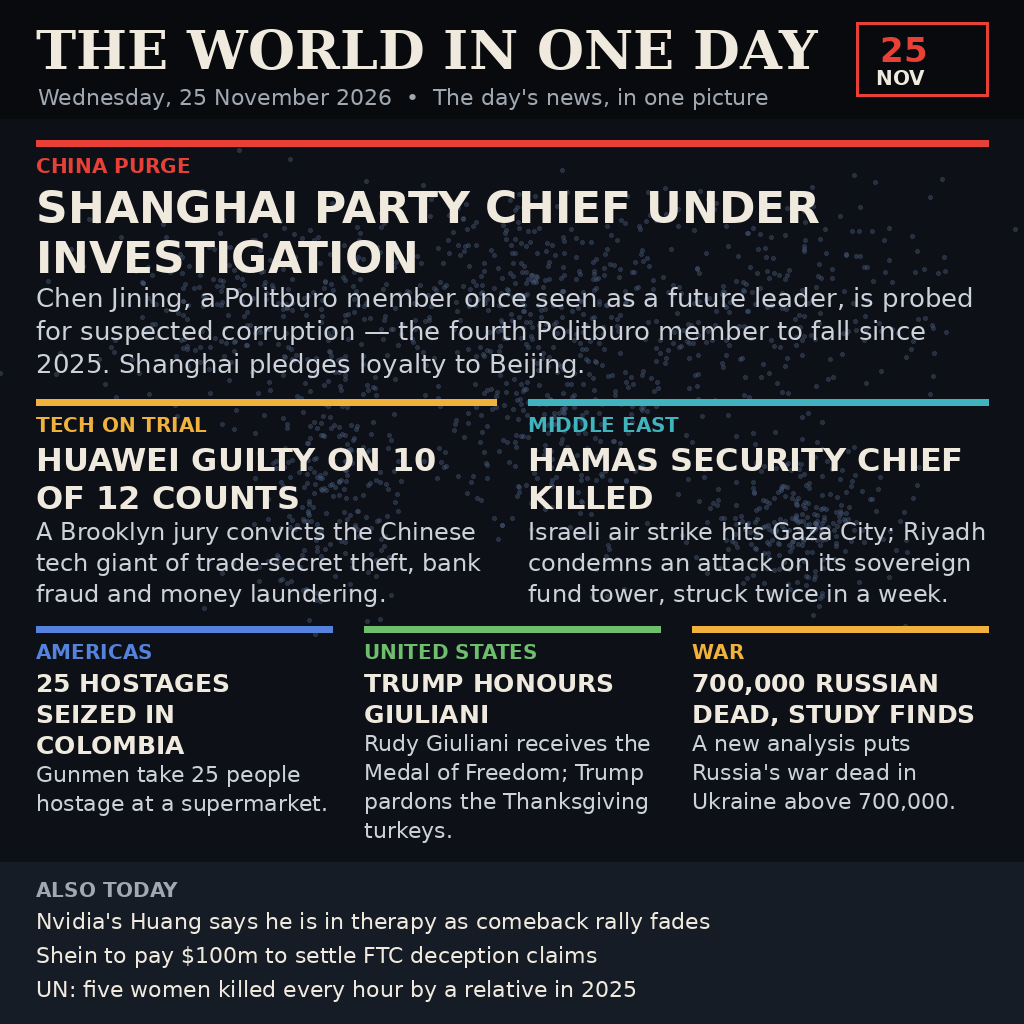
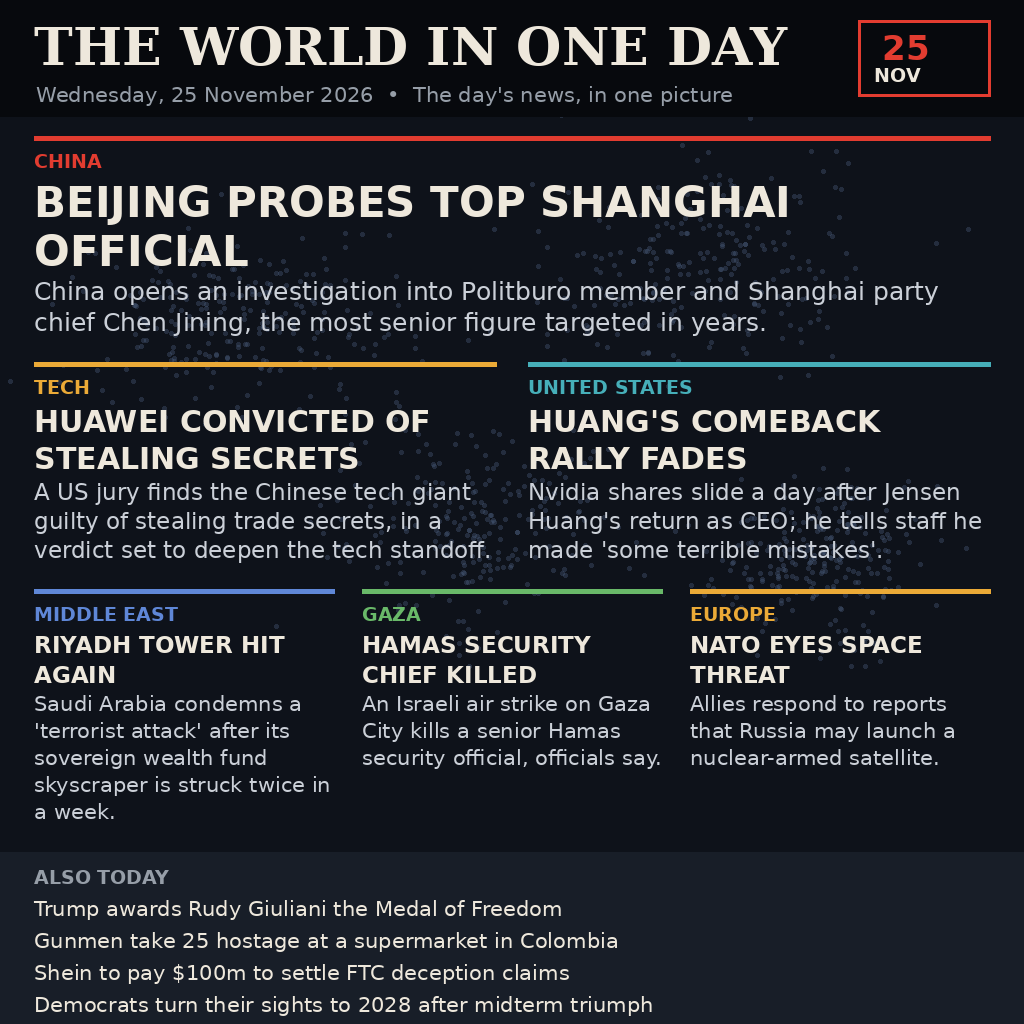
Rewrite build_image.py and main.py from scratch for 25 Nov 2026

Changed region(s): [[0.0312, 0.0, 0.9688, 0.8125], [0.0312, 0.8438, 0.6875, 1.0]]

diff --git a/build_image.py b/build_image.py
@@ -1,115 +1,138 @@
 #!/usr/bin/env python3
 """Draw the 25 Nov 2026 world-news summary image (1024x1024 PNG).
 
-Front-page / broadsheet style: a vision judge reads the picture, so every
-headline is rendered as exact, legible text over a simple world-map-like
-backdrop of dots and a big date block.
+A front-page layout: masthead with the date, one lead story, two
+mid-size stories, three short stories and an "also today" strip.
+Every story is drawn by a small helper that returns where it ends,
+so blocks are stacked with fixed gaps and can never overlap.
 """
 from PIL import Image, ImageDraw, ImageFont
 
 W = H = 1024
-BG = (13, 17, 23)
-PAPER = (240, 234, 222)
-ACCENT = (232, 64, 54)      # red
-GOLD = (240, 178, 60)
-TEAL = (64, 180, 190)
-BLUE = (84, 130, 220)
-GREEN = (110, 190, 110)
-GREY = (160, 168, 178)
-DARKPANEL = (22, 28, 38)
+INK = (14, 18, 26)          # page background
+PAPER = (238, 232, 220)     # headline colour
+BODY = (203, 208, 216)      # body text colour
+MUTED = (150, 158, 168)     # captions
+RED = (226, 60, 48)
+AMBER = (235, 170, 55)
+TEAL = (70, 175, 185)
+SKY = (95, 135, 215)
+LEAF = (105, 185, 105)
+STRIP = (24, 30, 40)
 
+SERIF = "/usr/share/fonts/truetype/dejavu/DejaVuSerif-Bold.ttf"
 BOLD = "/usr/share/fonts/truetype/dejavu/DejaVuSans-Bold.ttf"
-REG = "/usr/share/fonts/truetype/dejavu/DejaVuSans.ttf"
-SERIFB = "/usr/share/fonts/truetype/dejavu/DejaVuSerif-Bold.ttf"
+PLAIN = "/usr/share/fonts/truetype/dejavu/DejaVuSans.ttf"
 
-def f(path, size):
+
+def font(path, size):
     return ImageFont.truetype(path, size)
 
-img = Image.new("RGB", (W, H), BG)
+
+img = Image.new("RGB", (W, H), INK)
 d = ImageDraw.Draw(img, "RGBA")
 
-# dotted world backdrop (stylised continents as dot clusters)
+# faint dotted texture, like a stylised map, behind the stories
 import random
 random.seed(25)
-for cx, cy, rx, ry in [(250, 300, 150, 90), (330, 470, 70, 110), (520, 280, 130, 80),
-                       (560, 420, 90, 110), (760, 300, 170, 100), (800, 520, 80, 60)]:
-    for _ in range(260):
-        x = random.gauss(cx, rx / 1.7)
-        y = random.gauss(cy, ry / 1.7)
+for cx, cy, rx, ry in [(230, 320, 140, 80), (700, 260, 160, 90),
+                       (480, 520, 120, 90), (820, 560, 90, 70)]:
+    for _ in range(240):
+        x = random.gauss(cx, rx / 1.8)
+        y = random.gauss(cy, ry / 1.8)
         if 0 < x < W and 0 < y < H:
-            d.ellipse([x - 2, y - 2, x + 2, y + 2], fill=(70, 90, 120, 110))
+            d.ellipse([x - 2, y - 2, x + 2, y + 2], fill=(70, 88, 118, 100))
 
-def wrap(text, font, width):
-    words, lines, cur = text.split(), [], ""
-    for w in words:
-        t = (cur + " " + w).strip()
-        if d.textlength(t, font=font) <= width:
-            cur = t
+
+def wrap(text, fnt, width):
+    """Greedy word wrap; returns a list of lines that fit `width`."""
+    lines, cur = [], ""
+    for word in text.split():
+        trial = (cur + " " + word).strip()
+        if d.textlength(trial, font=fnt) <= width:
+            cur = trial
         else:
-            lines.append(cur); cur = w
+            lines.append(cur)
+            cur = word
     if cur:
         lines.append(cur)
     return lines
 
-def block(x, y, w, tag, tagcolor, headline, hsize, body, bsize=25, hcolor=PAPER):
-    d.rectangle([x, y, x + w, y + 6], fill=tagcolor)
-    d.text((x, y + 14), tag, font=f(BOLD, 20), fill=tagcolor)
-    yy = y + 42
-    for ln in wrap(headline, f(BOLD, hsize), w):
-        d.text((x, yy), ln, font=f(BOLD, hsize), fill=hcolor)
-        yy += hsize + 6
-    for ln in wrap(body, f(REG, bsize), w):
-        d.text((x, yy), ln, font=f(REG, bsize), fill=(205, 210, 218))
-        yy += bsize + 7
+
+def story(x, y, w, kicker, colour, headline, head_size, body, body_size=23):
+    """Draw one story block; return the y just below it."""
+    d.line([x, y, x + w, y], fill=colour, width=5)
+    d.text((x, y + 12), kicker, font=font(BOLD, 19), fill=colour)
+    yy = y + 40
+    hf = font(BOLD, head_size)
+    for ln in wrap(headline, hf, w):
+        d.text((x, yy), ln, font=hf, fill=PAPER)
+        yy += head_size + 7
+    bf = font(PLAIN, body_size)
+    for ln in wrap(body, bf, w):
+        d.text((x, yy), ln, font=bf, fill=BODY)
+        yy += body_size + 6
     return yy
 
-# masthead
-d.rectangle([0, 0, W, 118], fill=(8, 10, 14))
-d.text((36, 18), "THE WORLD IN ONE DAY", font=f(SERIFB, 54), fill=PAPER)
-d.text((38, 84), "Wednesday, 25 November 2026  \u2022  The day's news, in one picture", font=f(REG, 22), fill=GREY)
-d.rectangle([856, 22, 988, 96], outline=ACCENT, width=3)
-d.text((880, 30), "25", font=f(BOLD, 34), fill=ACCENT)
-d.text((876, 66), "NOV", font=f(BOLD, 20), fill=PAPER)
 
-# lead story
-y = block(36, 140, 952, "CHINA PURGE", ACCENT,
-          "SHANGHAI PARTY CHIEF UNDER INVESTIGATION", 44,
-          "Chen Jining, a Politburo member once seen as a future leader, is probed for suspected corruption \u2014 the fourth Politburo member to fall since 2025. Shanghai pledges loyalty to Beijing.", 26)
+# ---- masthead -------------------------------------------------------------
+d.rectangle([0, 0, W, 116], fill=(7, 9, 13))
+d.text((34, 16), "THE WORLD IN ONE DAY", font=font(SERIF, 52), fill=PAPER)
+d.text((36, 82), "Wednesday, 25 November 2026  •  The day's news, in one picture",
+       font=font(PLAIN, 21), fill=MUTED)
+d.rectangle([858, 20, 990, 96], outline=RED, width=3)
+d.text((882, 28), "25", font=font(BOLD, 34), fill=RED)
+d.text((874, 64), "NOV", font=font(BOLD, 19), fill=PAPER)
 
-# two columns, second row
-y2 = max(y + 18, 356)
-b1 = block(36, y2, 460, "TECH ON TRIAL", GOLD,
-      "HUAWEI GUILTY ON 10 OF 12 COUNTS", 32,
-      "A Brooklyn jury convicts the Chinese tech giant of trade-secret theft, bank fraud and money laundering.", 24)
-b2 = block(528, y2, 460, "MIDDLE EAST", TEAL,
-      "HAMAS SECURITY CHIEF KILLED", 32,
-      "Israeli air strike hits Gaza City; Riyadh condemns an attack on its sovereign fund tower, struck twice in a week.", 24)
+# ---- lead story -----------------------------------------------------------
+y = story(34, 138, 956, "CHINA", RED,
+          "BEIJING PROBES TOP SHANGHAI OFFICIAL", 42,
+          "China opens an investigation into Politburo member and Shanghai "
+          "party chief Chen Jining, the most senior figure targeted in years.",
+          25)
 
-# third row, three columns
-y3 = max(b1, b2) + 16
-c1 = block(36, y3, 296, "AMERICAS", BLUE,
-      "25 HOSTAGES SEIZED IN COLOMBIA", 25,
-      "Gunmen take 25 people hostage at a supermarket.", 22)
-c2 = block(364, y3, 296, "UNITED STATES", GREEN,
-      "TRUMP HONOURS GIULIANI", 25,
-      "Rudy Giuliani receives the Medal of Freedom; Trump pardons the Thanksgiving turkeys.", 22)
-c3 = block(692, y3, 296, "WAR", GOLD,
-      "700,000 RUSSIAN DEAD, STUDY FINDS", 25,
-      "A new analysis puts Russia's war dead in Ukraine above 700,000.", 22)
+# ---- middle row: two stories ---------------------------------------------
+mid_y = y + 26
+left_end = story(34, mid_y, 462, "TECH", AMBER,
+                 "HUAWEI CONVICTED OF STEALING SECRETS", 30,
+                 "A US jury finds the Chinese tech giant guilty of stealing "
+                 "trade secrets, in a verdict set to deepen the tech standoff.",
+                 23)
+right_end = story(528, mid_y, 462, "UNITED STATES", TEAL,
+                  "HUANG'S COMEBACK RALLY FADES", 30,
+                  "Nvidia shares slide a day after Jensen Huang's return as "
+                  "CEO; he tells staff he made 'some terrible mistakes'.",
+                  23)
 
-# bottom strip
-y4 = max(c1, c2, c3) + 16
-d.rectangle([0, y4, W, H], fill=DARKPANEL)
-d.text((36, y4 + 16), "ALSO TODAY", font=f(BOLD, 20), fill=GREY)
-d.text((36, y4 + 46),
-       "Nvidia's Huang says he is in therapy as comeback rally fades",
-       font=f(REG, 22), fill=PAPER)
-d.text((36, y4 + 80),
-       "Shein to pay $100m to settle FTC deception claims",
-       font=f(REG, 22), fill=PAPER)
-d.text((36, y4 + 114),
-       "UN: five women killed every hour by a relative in 2025",
-       font=f(REG, 22), fill=PAPER)
+# ---- lower row: three short stories ---------------------------------------
+low_y = max(left_end, right_end) + 26
+a = story(34, low_y, 300, "MIDDLE EAST", SKY,
+          "RIYADH TOWER HIT AGAIN", 23,
+          "Saudi Arabia condemns a 'terrorist attack' after its sovereign "
+          "wealth fund skyscraper is struck twice in a week.", 21)
+b = story(362, low_y, 300, "GAZA", LEAF,
+          "HAMAS SECURITY CHIEF KILLED", 23,
+          "An Israeli air strike on Gaza City kills a senior Hamas security "
+          "official, officials say.", 21)
+c = story(690, low_y, 300, "EUROPE", AMBER,
+          "NATO EYES SPACE THREAT", 23,
+          "Allies respond to reports that Russia may launch a nuclear-armed "
+          "satellite.", 21)
+
+# ---- also today strip ------------------------------------------------------
+strip_y = max(a, b, c) + 26
+d.rectangle([0, strip_y, W, H], fill=STRIP)
+d.text((34, strip_y + 14), "ALSO TODAY", font=font(BOLD, 19), fill=MUTED)
+also = [
+    "Trump awards Rudy Giuliani the Medal of Freedom",
+    "Gunmen take 25 hostage at a supermarket in Colombia",
+    "Shein to pay $100m to settle FTC deception claims",
+    "Democrats turn their sights to 2028 after midterm triumph",
+]
+yy = strip_y + 44
+for line in also:
+    d.text((34, yy), line, font=font(PLAIN, 21), fill=PAPER)
+    yy += 32
 
 img.save("/home/hatch/workspace/makefun/entry-news-image-1125/entry.png")
-print("saved")
+print("saved entry.png")

diff --git a/main.py b/main.py
@@ -1,17 +1,17 @@
-"""make.fun news-image-20261125 entry.
+#!/usr/bin/env python3
+"""Copy the built news image into the output directory.
 
-Writes the day's-news summary image to the output directory.
-The image beside this file (entry.png, 1024x1024, drawn by build_image.py
-from the headlines of 25 November 2026) is the entry; this program copies
-it to <output>/entry.png, where <output> is MAKEFUN_OUTPUT_DIR when set
-and /output otherwise.
+The grader runs this program with MAKEFUN_OUTPUT_DIR set; when it is
+absent the image goes to /output instead. The directory is created
+when it does not exist yet.
 """
 import os
 import shutil
-from pathlib import Path
 
-src = Path(__file__).with_name("entry.png")
-out_dir = Path(os.environ.get("MAKEFUN_OUTPUT_DIR", "/output"))
-out_dir.mkdir(parents=True, exist_ok=True)
-shutil.copyfile(src, out_dir / "entry.png")
-print(f"wrote {out_dir / 'entry.png'}")
+HERE = os.path.dirname(os.path.abspath(__file__))
+SRC = os.path.join(HERE, "entry.png")
+
+out_dir = os.environ.get("MAKEFUN_OUTPUT_DIR") or "/output"
+os.makedirs(out_dir, exist_ok=True)
+shutil.copyfile(SRC, os.path.join(out_dir, "entry.png"))
+print("wrote entry.png to", out_dir)
